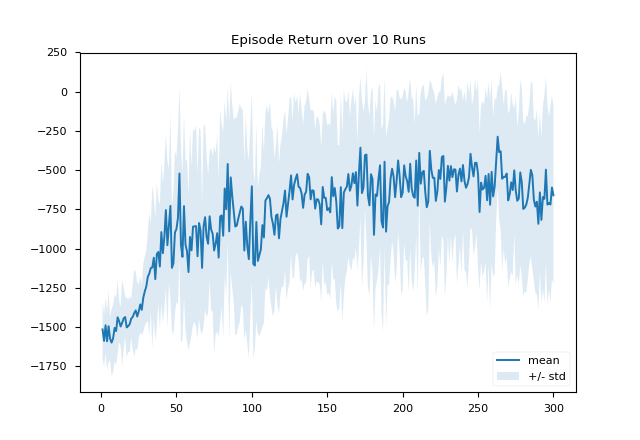
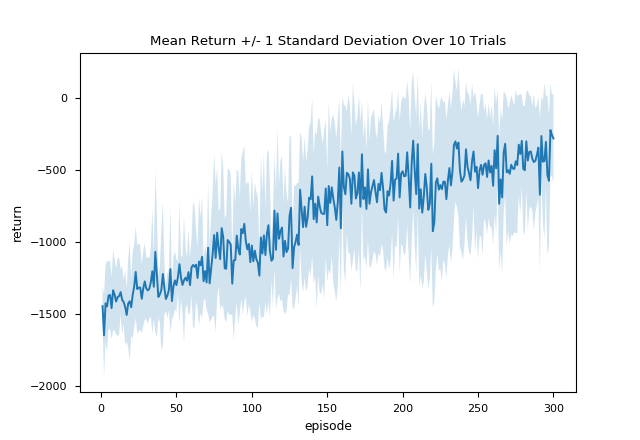
normalize

diff --git a/DDPG/ddpg_pendulum.py b/DDPG/ddpg_pendulum.py
@@ -1,4 +1,5 @@
 from replay_memory import Transition, ReplayMemory
+from running_stat import ZFilter
 
 from itertools import zip_longest
 import matplotlib.pyplot as plt
@@ -59,7 +60,11 @@ class DDPG(nn.Module):
 
     def __init__(self):
         super(DDPG, self).__init__()
-        
+
+        # Z filter
+        self.zfilter = ZFilter(S_DIM)
+
+        #
         self.actor = Actor(S_DIM, HIDDEN_SIZE, A_DIM)
         self.actor_optim = torch.optim.Adam(self.actor.parameters(), LR_A)
 
@@ -76,13 +81,18 @@ class DDPG(nn.Module):
         self._Var = lambda v, dtype: Variable(torch.from_numpy(v).type(dtype))
 
     def choose_action(self, s, noise):
-        s = self._Var(np.expand_dims(s, axis=0), torch.FloatTensor)
+        s = self.zfilter(s)
+        S = self._Var(np.expand_dims(s, axis=0), torch.FloatTensor)
 
-        action = self.actor(s).data.numpy()[0] * A_BOUND
+        action = self.actor(S).data.numpy()[0] * A_BOUND
         action += noise
         return action
 
     def store_transition(self, s, a, r, s_):
+        s = self.zfilter(s)
+        s_ = self.zfilter(s_)
+        r /= 16   # scale reward signal
+
         self.replay_memory.push(s, a, np.array([r]), s_)   # store with 1D np array
 
     def learn(self):
@@ -120,12 +130,10 @@ class DDPG(nn.Module):
         # Soft update on target networks
         for c, c_t, a, a_t in zip_longest(self.critic.parameters(), self.critic_target.parameters(),
                                           self.actor.parameters(), self.actor_target.parameters()):
-
             if c is not None:
                 c_t.data = TAU * c.data + (1 - TAU) * c_t.data
             if a is not None:
                 a_t.data = TAU * a.data + (1 - TAU) * a_t.data
-
 
 
 if __name__ == '__main__':
@@ -152,4 +160,5 @@ if __name__ == '__main__':
             if done:
                 print('Ep: ', ep, '| Ep_r: ', round(ret, 2))
                 break
+
 

diff --git a/DDPG/running_stat.py b/DDPG/running_stat.py
@@ -1,0 +1,70 @@
+import numpy as np
+
+
+# from https://github.com/joschu/modular_rl
+# http://www.johndcook.com/blog/standard_deviation/
+class RunningStat(object):
+    def __init__(self, shape):
+        self._n = 0
+        self._M = np.zeros(shape)
+        self._S = np.zeros(shape)
+
+    def push(self, x):
+        x = np.asarray(x)
+        # print ("push shape: ", x.shape)
+        assert x.shape == self._M.shape
+        self._n += 1
+        if self._n == 1:
+            self._M[...] = x   # in-place modification
+        else:
+            oldM = self._M.copy()
+            self._M[...] = oldM + (x - oldM) / self._n
+            self._S[...] = self._S + (x - oldM) * (x - self._M)
+
+    @property
+    def n(self):
+        return self._n
+
+    @property
+    def mean(self):
+        return self._M
+
+    @property
+    def var(self):
+        return self._S / (self._n - 1) if self._n > 1 else np.square(self._M)
+
+    @property
+    def std(self):
+        return np.sqrt(self.var)
+
+    @property
+    def shape(self):
+        return self._M.shape
+
+
+class ZFilter:
+    """
+    y = (x-mean)/std
+    using running estimates of mean,std
+    """
+
+    def __init__(self, shape, demean=True, destd=True, clip=10.0):
+        self.demean = demean
+        self.destd = destd
+        self.clip = clip
+
+        # print ("Zfilter shape: ", shape)
+        self.rs = RunningStat(shape)
+
+    def __call__(self, x, update=True):
+        if update: self.rs.push(x)
+        if self.demean:
+            x = x - self.rs.mean
+        if self.destd:
+            x = x / (self.rs.std + 1e-8)
+        if self.clip:
+            x = np.clip(x, -self.clip, self.clip)
+        return x
+
+    def output_shape(self, input_space):
+        return input_space.shape

diff --git a/README.md b/README.md
@@ -2,7 +2,7 @@
 
 
 
-The repo contains the following material:
+This repo contains the following materials:
 
 
 
@@ -11,3 +11,6 @@ The repo contains the following material:
 A simple implementation of the *deep deterministic policy gradient* algorithm presented in [this paper](https://arxiv.org/pdf/1509.02971.pdf) on the classical [Pendulum task](https://github.com/openai/gym/wiki/Pendulum-v0) via [OpenAI Gym](https://gym.openai.com).
 
 ![ddpg_pendulum_result](DDPG/ddpg_pendulum_result.png)
+
+I also normalized the state input by keeping a running stat using code from [John Schulman's repo](https://github.com/joschu/modular_rl/blob/master/modular_rl/running_stat.py) and scale the reward signal into the range roughly between [-1, 0] by dividing it by 16.
+
